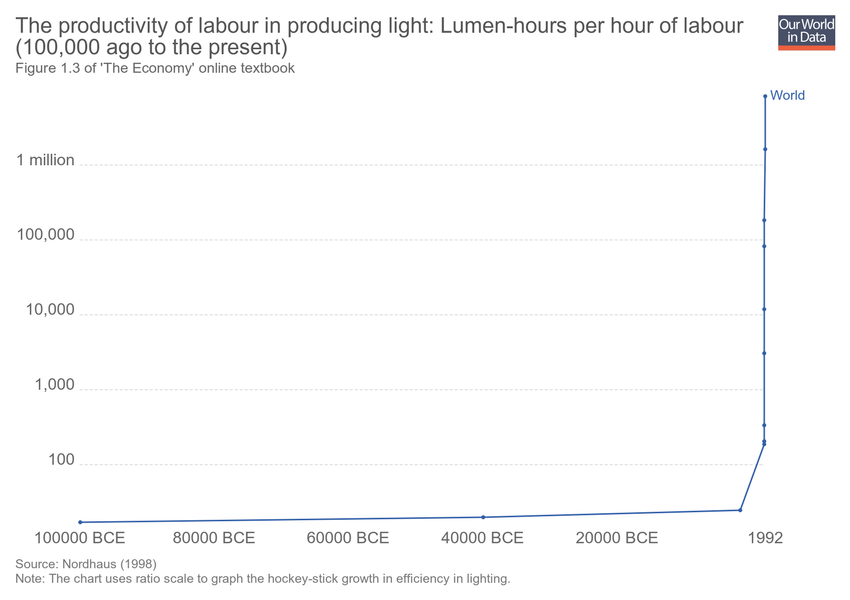
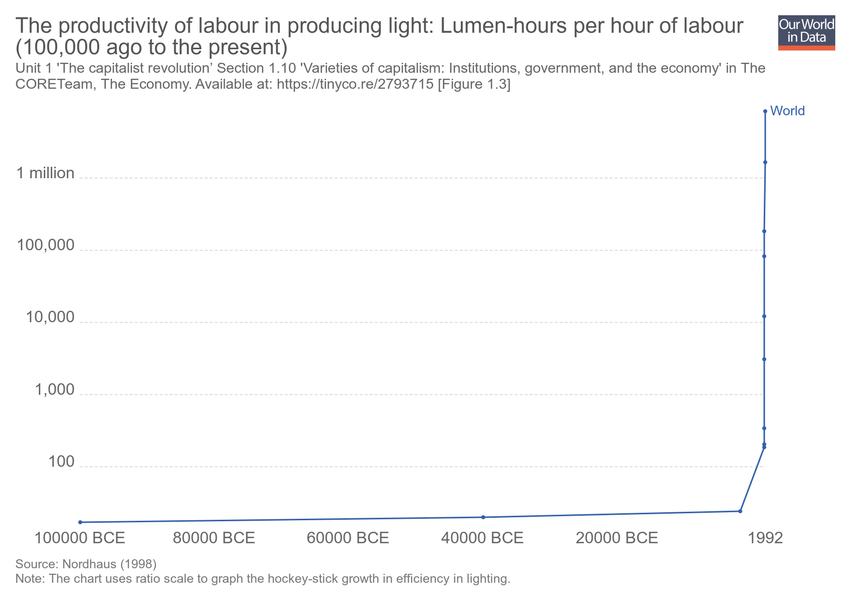
Updating chart the-productivity-of-labour-in-producing-light-lumen-hours-per-hour-of-labour-100000-ago-to-the-present

diff --git a/grapher/the-productivity-of-labour-in-producing-light-lumen-hours-per-hour-of-labour-100000-ago-to-the-present.html b/grapher/the-productivity-of-labour-in-producing-light-lumen-hours-per-hour-of-labour-100000-ago-to-the-present.html
@@ -1,4 +1,4 @@
-<!doctype html><html><head><meta name="viewport" content="width=device-width, initial-scale=1" /><title>The productivity of labour in producing light: Lumen-hours per hour of labour (100,000 ago to the present)  - Our World in Data</title><meta name="description" content="Figure 1.3 of 'The Economy' online textbook" /><link rel="canonical" href="https://ourworldindata.org/grapher/the-productivity-of-labour-in-producing-light-lumen-hours-per-hour-of-labour-100000-ago-to-the-present" /><meta property="fb:app_id" content="1149943818390250" /><meta property="og:url" content="https://ourworldindata.org/grapher/the-productivity-of-labour-in-producing-light-lumen-hours-per-hour-of-labour-100000-ago-to-the-present" /><meta property="og:title" content="The productivity of labour in producing light: Lumen-hours per hour of labour (100,000 ago to the present) " /><meta property="og:description" content="Figure 1.3 of 'The Economy' online textbook" /><meta property="og:image" content="https://ourworldindata.org/grapher/exports/the-productivity-of-labour-in-producing-light-lumen-hours-per-hour-of-labour-100000-ago-to-the-present.png?v=12" /><meta property="og:image:width" content="850" /><meta property="og:image:height" content="600" /><meta property="og:site_name" content="Our World in Data" /><meta name="twitter:card" content="summary_large_image" /><meta name="twitter:site" content="@OurWorldInData" /><meta name="twitter:creator" content="@OurWorldInData" /><meta name="twitter:title" content="The productivity of labour in producing light: Lumen-hours per hour of labour (100,000 ago to the present) " /><meta name="twitter:description" content="Figure 1.3 of 'The Economy' online textbook" /><meta name="twitter:image" content="https://ourworldindata.org/grapher/exports/the-productivity-of-labour-in-producing-light-lumen-hours-per-hour-of-labour-100000-ago-to-the-present.png?v=12" /><style>
+<!doctype html><html><head><meta name="viewport" content="width=device-width, initial-scale=1" /><title>The productivity of labour in producing light: Lumen-hours per hour of labour (100,000 ago to the present)  - Our World in Data</title><meta name="description" content="Unit 1 'The capitalist revolution’ Section 1.10 'Varieties of capitalism: Institutions, government, and the economy' in The CORETeam, The Economy. Available at: https://tinyco.re/2793715 [Figure 1.3]" /><link rel="canonical" href="https://ourworldindata.org/grapher/the-productivity-of-labour-in-producing-light-lumen-hours-per-hour-of-labour-100000-ago-to-the-present" /><meta property="fb:app_id" content="1149943818390250" /><meta property="og:url" content="https://ourworldindata.org/grapher/the-productivity-of-labour-in-producing-light-lumen-hours-per-hour-of-labour-100000-ago-to-the-present" /><meta property="og:title" content="The productivity of labour in producing light: Lumen-hours per hour of labour (100,000 ago to the present) " /><meta property="og:description" content="Unit 1 'The capitalist revolution’ Section 1.10 'Varieties of capitalism: Institutions, government, and the economy' in The CORETeam, The Economy. Available at: https://tinyco.re/2793715 [Figure 1.3]" /><meta property="og:image" content="https://ourworldindata.org/grapher/exports/the-productivity-of-labour-in-producing-light-lumen-hours-per-hour-of-labour-100000-ago-to-the-present.png?v=13" /><meta property="og:image:width" content="850" /><meta property="og:image:height" content="600" /><meta property="og:site_name" content="Our World in Data" /><meta name="twitter:card" content="summary_large_image" /><meta name="twitter:site" content="@OurWorldInData" /><meta name="twitter:creator" content="@OurWorldInData" /><meta name="twitter:title" content="The productivity of labour in producing light: Lumen-hours per hour of labour (100,000 ago to the present) " /><meta name="twitter:description" content="Unit 1 'The capitalist revolution’ Section 1.10 'Varieties of capitalism: Institutions, government, and the economy' in The CORETeam, The Economy. Available at: https://tinyco.re/2793715 [Figure 1.3]" /><meta name="twitter:image" content="https://ourworldindata.org/grapher/exports/the-productivity-of-labour-in-producing-light-lumen-hours-per-hour-of-labour-100000-ago-to-the-present.png?v=13" /><style>
         html, body {
             height: 100%;
             margin: 0;
@@ -20,8 +20,8 @@
         }
     </style><noscript><style>
                     figure { display: none !important; }
-                </style></noscript><link rel="stylesheet" href="https://ourworldindata.org/grapher/assets/commons.bundle.397229a8467cf53bfc99.css" /><link rel="preload" href="/grapher/data/variables/97944.json?v=12" as="fetch" crossorigin /></head><body class="singleChart"><figure data-grapher-src="/grapher/the-productivity-of-labour-in-producing-light-lumen-hours-per-hour-of-labour-100000-ago-to-the-present"></figure><noscript id="fallback"><img src="/grapher/exports/the-productivity-of-labour-in-producing-light-lumen-hours-per-hour-of-labour-100000-ago-to-the-present.svg" /><p>Interactive visualization requires JavaScript</p></noscript><script src="https://cdn.polyfill.io/v2/polyfill.min.js?features=es6,fetch"></script><script src="https://ourworldindata.org/grapher/assets/commons.bundle.397229a8467cf53bfc99.js"></script><script src="https://ourworldindata.org/grapher/assets/charts.bundle.397229a8467cf53bfc99.js"></script><script>
-        var jsonConfig = {"id":3013,"map":{"projection":"World","variableId":97944,"colorSchemeLabels":[],"colorSchemeValues":[],"customNumericColors":[],"customCategoryColors":{},"customCategoryLabels":{},"customHiddenCategories":{}},"tab":"chart","note":"The chart uses ratio scale to graph the hockey-stick growth in efficiency in lighting.","slug":"the-productivity-of-labour-in-producing-light-lumen-hours-per-hour-of-labour-100000-ago-to-the-present","type":"LineChart","title":"The productivity of labour in producing light: Lumen-hours per hour of labour (100,000 ago to the present) ","xAxis":{"scaleType":"linear"},"yAxis":{"min":0,"scaleType":"log"},"version":12,"subtitle":"Figure 1.3 of 'The Economy' online textbook","hasMapTab":false,"stackMode":"absolute","dimensions":[{"display":{},"property":"y","variableId":97944}],"entityType":"country","hasChartTab":true,"isPublished":true,"selectedData":[{"index":0,"entityId":355}],"internalNotes":"core-econ.org","addCountryMode":"add-country"};
+                </style></noscript><link rel="stylesheet" href="https://ourworldindata.org/grapher/assets/commons.bundle.397229a8467cf53bfc99.css" /><link rel="preload" href="/grapher/data/variables/97944.json?v=13" as="fetch" crossorigin /></head><body class="singleChart"><figure data-grapher-src="/grapher/the-productivity-of-labour-in-producing-light-lumen-hours-per-hour-of-labour-100000-ago-to-the-present"></figure><noscript id="fallback"><img src="/grapher/exports/the-productivity-of-labour-in-producing-light-lumen-hours-per-hour-of-labour-100000-ago-to-the-present.svg" /><p>Interactive visualization requires JavaScript</p></noscript><script src="https://cdn.polyfill.io/v2/polyfill.min.js?features=es6,fetch"></script><script src="https://ourworldindata.org/grapher/assets/commons.bundle.397229a8467cf53bfc99.js"></script><script src="https://ourworldindata.org/grapher/assets/charts.bundle.397229a8467cf53bfc99.js"></script><script>
+        var jsonConfig = {"id":3013,"map":{"projection":"World","variableId":97944,"colorSchemeLabels":[],"colorSchemeValues":[],"customNumericColors":[],"customCategoryColors":{},"customCategoryLabels":{},"customHiddenCategories":{}},"tab":"chart","note":"The chart uses ratio scale to graph the hockey-stick growth in efficiency in lighting.","slug":"the-productivity-of-labour-in-producing-light-lumen-hours-per-hour-of-labour-100000-ago-to-the-present","type":"LineChart","title":"The productivity of labour in producing light: Lumen-hours per hour of labour (100,000 ago to the present) ","xAxis":{"scaleType":"linear"},"yAxis":{"min":0,"scaleType":"log"},"version":13,"subtitle":"Unit 1 'The capitalist revolution’ Section 1.10 'Varieties of capitalism: Institutions, government, and the economy' in The CORETeam, The Economy. Available at: https://tinyco.re/2793715 [Figure 1.3]","hasMapTab":false,"stackMode":"absolute","dimensions":[{"display":{},"property":"y","variableId":97944}],"entityType":"country","hasChartTab":true,"isPublished":true,"selectedData":[{"index":0,"entityId":355}],"internalNotes":"core-econ.org","addCountryMode":"add-country"};
         var figure = document.getElementsByTagName("figure")[0];
         try {
             window.App = {};
